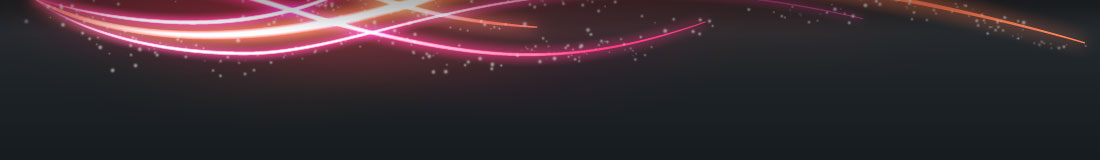
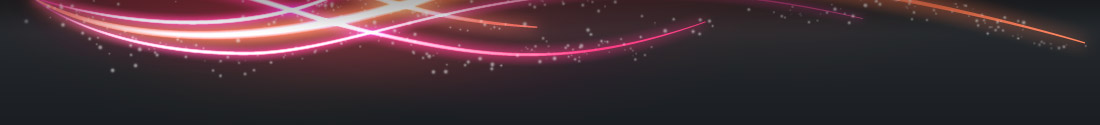
Update JPG quality images, CSS fixes and tweaks

diff --git a/css/main.css b/css/main.css
@@ -55,7 +55,7 @@ small {
 header {
 	height: 100px;
 	padding-top: 20px;
-	background-image: url(../images/swirl_top.jpg), url(../images/bg_header.png);
+	background-image: url(../images/swirl_top.png), url(../images/bg_header.png);
 	background-position: bottom center, bottom center;
 	background-repeat: no-repeat, repeat-x;
 }
@@ -291,8 +291,8 @@ footer {
 	overflow: hidden;
 	min-height: 160px;
 	min-width: 960px;
-	background-image: url(../images/swirl_btm.jpg), url(../images/bg_footer.png);
-	background-position: bottom center, bottom center;
+	background-image: url(../images/swirl_btm.png), url(../images/bg_footer.png);
+	background-position: top center, top center;
 	background-repeat: no-repeat, repeat-x;
 }
 
